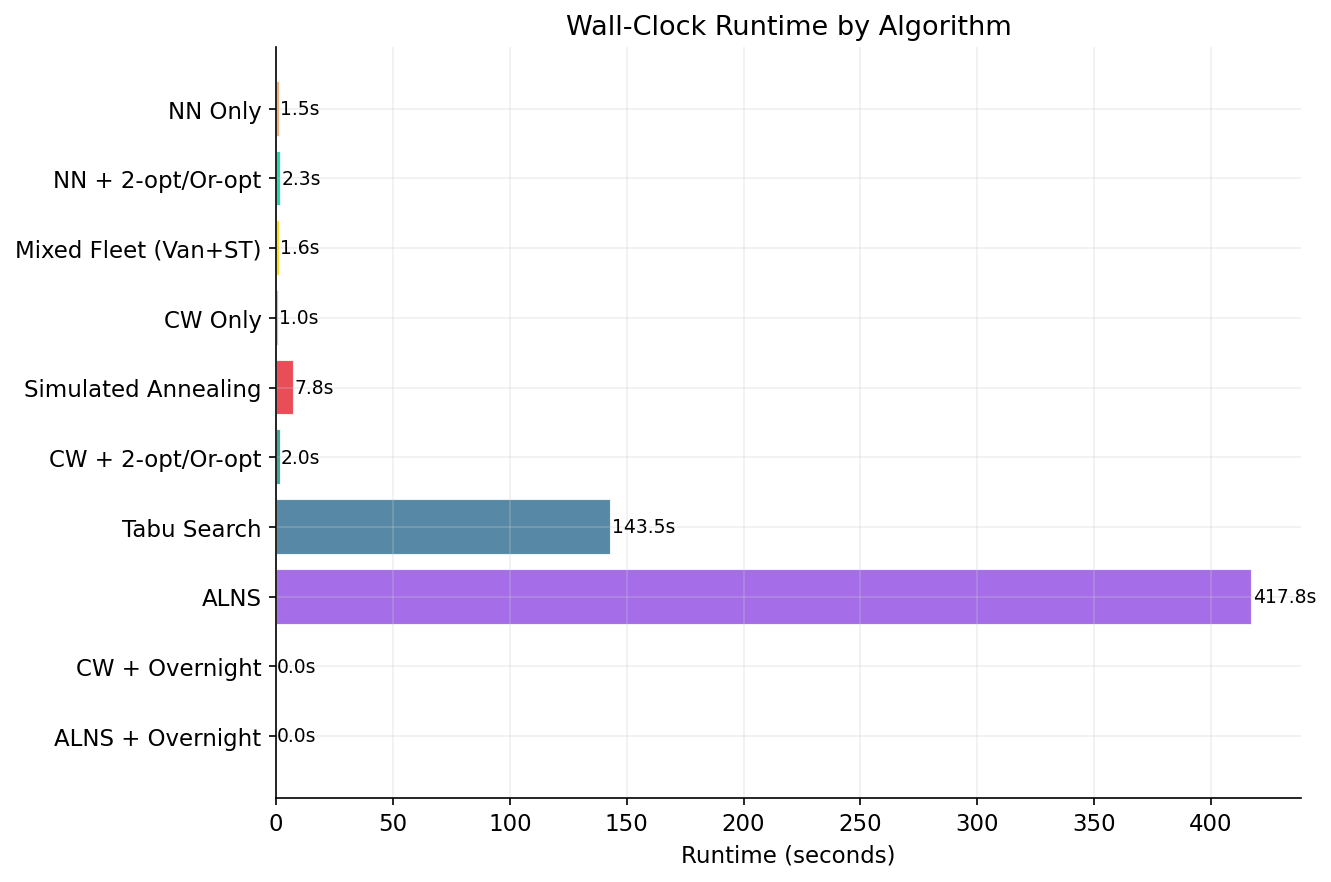
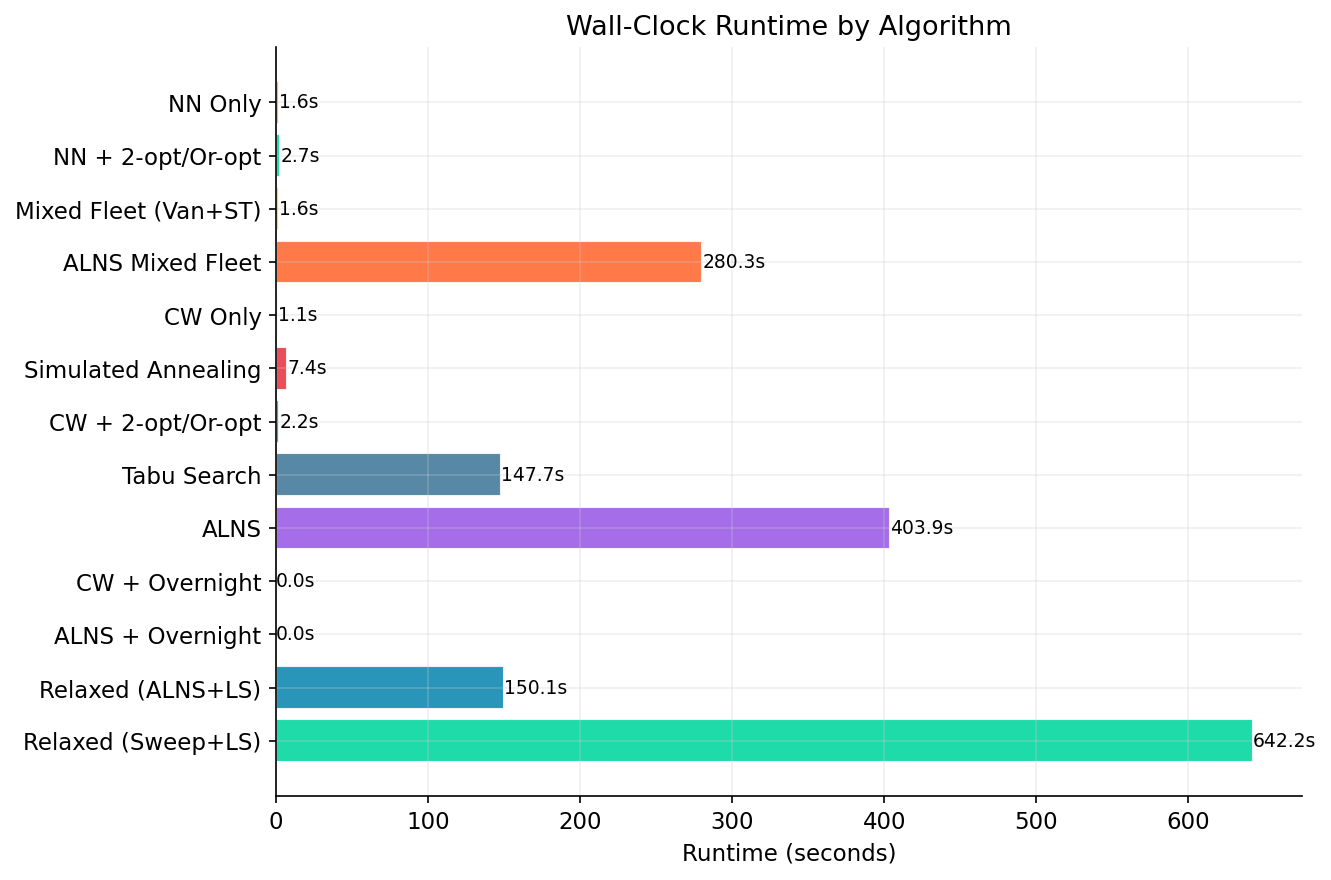
Relaxed Schedule fix and Results

diff --git a/VRP_SolverComparison.py b/VRP_SolverComparison.py
@@ -1,5 +1,5 @@
 """
-VRP_SolverComparison.py — Compare ten algorithm configurations on the NHG dataset.
+VRP_SolverComparison.py — Compare 13 algorithm configurations on the NHG dataset.
 
 Requires VRP_DataAnalysis.py to have been run first (data/ must exist).
 
@@ -14,6 +14,9 @@ Comparison matrix:
     cw_overnight         CW + LS + overnight pairings
     alns_overnight       ALNS + overnight pairings
     mixed_fleet          Mixed fleet Van + Straight Truck (CW + LS)
+    alns_mixed_fleet     Mixed fleet (ALNS)
+    relaxed_sweep        Angular sweep seed + greedy LS (Sub-problem 3)
+    relaxed_alns         ALNS inter-day seed + greedy LS (Sub-problem 3)
 """
 
 import os
@@ -23,7 +26,7 @@ import matplotlib.ticker as mticker
 import numpy as np
 import pandas as pd
 
-from vrp_solvers.base import DAYS, loadInputs, evaluateRoute
+from vrp_solvers.base import DAYS, loadInputs, evaluateRoute, loadZipCoords
 from vrp_solvers.alns               import ALNSSolver
 from vrp_solvers.clarkeWright       import ClarkeWrightSolver
 from vrp_solvers.nearestNeighbor    import NearestNeighborSolver
@@ -546,6 +549,7 @@ def main():
     makeDirs()
 
     orders, _ = loadInputs()
+    loadZipCoords()
 
     print("\nRunning all algorithms...")
     results, convergenceData, alnsWeightHist, resourceReports = runAll(orders, verbose=True)

diff --git a/VRP_RelaxedSchedule.py b/VRP_RelaxedSchedule.py
@@ -1,15 +1,14 @@
 """
 VRP_RelaxedSchedule.py — Sub-problem 3: Relaxed delivery-day scheduling.
 
-Three approaches compared:
-  1. Greedy LS from historical schedule (baseline)
-  2. Angular sweep seed + greedy LS        (8–15% improvement expected)
-  3. ALNS inter-day + greedy LS            (12–20% improvement expected)
+Two approaches compared:
+  1. Angular sweep seed + greedy LS        (8–15% improvement expected)
+  2. ALNS inter-day + greedy LS            (12–20% improvement expected)
 
 Requires VRP_DataAnalysis.py to have been run first (data/ must exist).
 
 Usage:
-    python VRP_RelaxedSchedule.py              # all three methods + map
+    python VRP_RelaxedSchedule.py              # both methods + map
     python VRP_RelaxedSchedule.py --no-map    # solver only (faster)
 
 Outputs:

diff --git a/vrp_solvers/relaxedScheduleSolver.py b/vrp_solvers/relaxedScheduleSolver.py
@@ -1,12 +1,12 @@
 """
 vrp_solvers/relaxedScheduleSolver.py — Sub-problem 3: Relaxed delivery-day scheduling.
 
-Three approaches, each returning (orders, routesByDay, dayStats, moves, score):
+Two approaches, each returning (orders, routesByDay, dayStats, moves, score):
 
   SweepRelaxedSolver         — angular sweep construction → greedy local search
   ALNSRelaxedSolver          — ALNS inter-day destroy/repair → greedy local search
 
-All three expose the same solver interface:
+Both solvers expose the same interface:
     solver = SweepRelaxedSolver()
     solver.solve(orders)
     stats  = solver.getStats()
